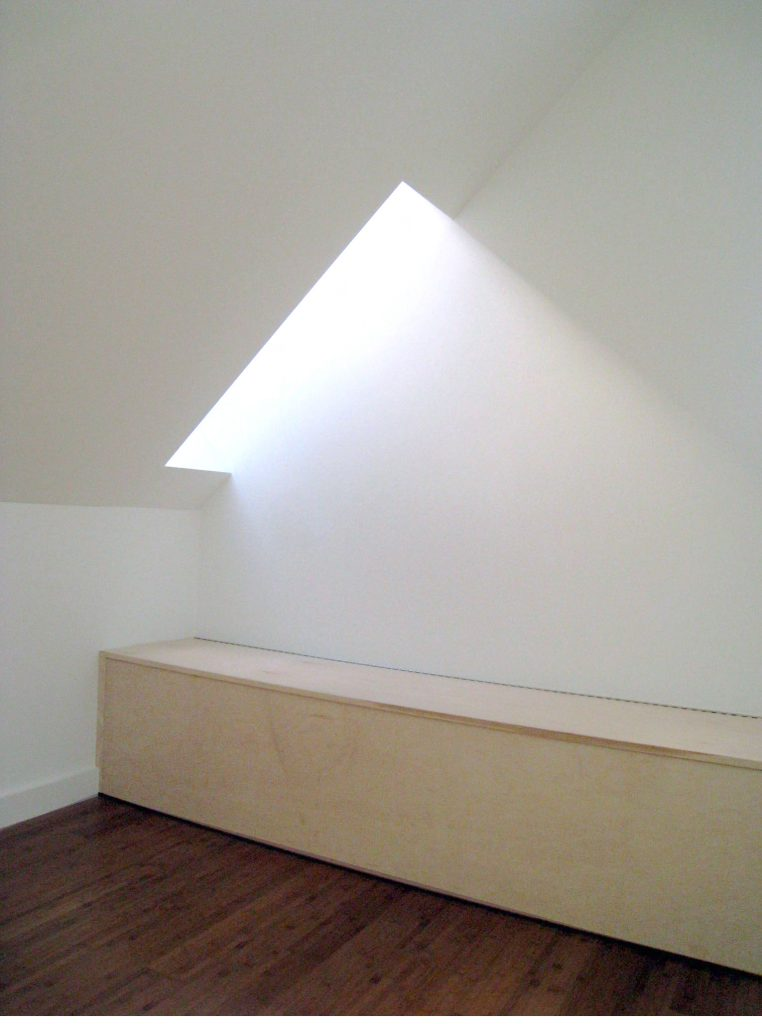
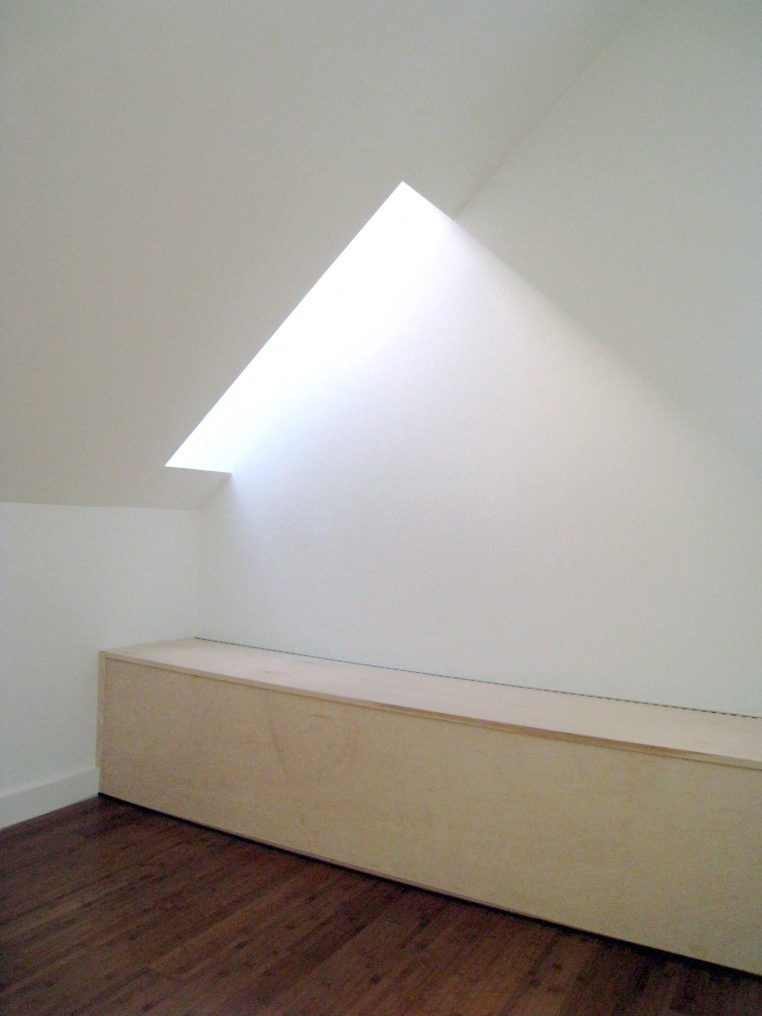
Fix sitewide row-padding cascade bug; Belvedere tile and crop
The generic band-row padding rule was overriding every specific row
padding at equal specificity (the footer bug's siblings): title-band
pages started 64px lower than plain pages, and gallery/overview rows
carried doubled gaps. All specific row rules now outrank it; every
page's first content line sits at the same height (pixel-measured
131-133 across work, about, contact, and project pages). Belvedere's
bench photo loses its 8px white bottom bar and becomes the project's
overview tile and og:image in place of the roof plan.

Claude-Session: https://claude.ai/code/session_01DCJKmvjgoa75rr5NGM94yB

diff --git a/dark/work/index.html b/dark/work/index.html
@@ -105,7 +105,7 @@
       <a class="wi-item" href="residential/25th-street/"><span class="wi-img"><img src="../../images/2017/03/1.jpg" alt="" loading="lazy" decoding="async"></span><span class="wi-name">25th Street<span class="wi-year">  2013</span></span></a>
       <a class="wi-item" href="residential/southard-place/"><span class="wi-img"><img src="../../images/2017/03/1-1-696x1024.jpg" alt="" loading="lazy" decoding="async"></span><span class="wi-name">Southard Place<span class="wi-year">  2010</span></span></a>
       <a class="wi-item" href="residential/xa-chin/"><span class="wi-img"><img src="../../images/2017/03/1.-xa-chin-lightwell-2-768x1024.jpg" alt="" loading="lazy" decoding="async"></span><span class="wi-name">Xa Chin<span class="wi-year">  2006</span></span></a>
-      <a class="wi-item" href="residential/belvedere/"><span class="wi-img"><img src="../../images/2017/03/1.-belvedere-roof-plan-1024x789.jpg" alt="" loading="lazy" decoding="async"></span><span class="wi-name">Belvedere<span class="wi-year">  2009</span></span></a>
+      <a class="wi-item" href="residential/belvedere/"><span class="wi-img"><img src="../../images/2017/03/3.-final-bench-1-762x1024.jpg" alt="" loading="lazy" decoding="async"></span><span class="wi-name">Belvedere<span class="wi-year">  2009</span></span></a>
       <a class="wi-item" href="residential/folsom/"><span class="wi-img"><img src="../../images/2017/03/1.-folsom-housing-1024x1007.jpg" alt="" loading="lazy" decoding="async"></span><span class="wi-name">Folsom<span class="wi-year">  2004</span></span></a>
     </div>
     <h5 class="wi-cat" id="institutional">INSTITUTIONAL</h5>

diff --git a/light/work/index.html b/light/work/index.html
@@ -105,7 +105,7 @@
       <a class="wi-item" href="residential/25th-street/"><span class="wi-img"><img src="../../images/2017/03/1.jpg" alt="" loading="lazy" decoding="async"></span><span class="wi-name">25th Street<span class="wi-year">  2013</span></span></a>
       <a class="wi-item" href="residential/southard-place/"><span class="wi-img"><img src="../../images/2017/03/1-1-696x1024.jpg" alt="" loading="lazy" decoding="async"></span><span class="wi-name">Southard Place<span class="wi-year">  2010</span></span></a>
       <a class="wi-item" href="residential/xa-chin/"><span class="wi-img"><img src="../../images/2017/03/1.-xa-chin-lightwell-2-768x1024.jpg" alt="" loading="lazy" decoding="async"></span><span class="wi-name">Xa Chin<span class="wi-year">  2006</span></span></a>
-      <a class="wi-item" href="residential/belvedere/"><span class="wi-img"><img src="../../images/2017/03/1.-belvedere-roof-plan-1024x789.jpg" alt="" loading="lazy" decoding="async"></span><span class="wi-name">Belvedere<span class="wi-year">  2009</span></span></a>
+      <a class="wi-item" href="residential/belvedere/"><span class="wi-img"><img src="../../images/2017/03/3.-final-bench-1-762x1024.jpg" alt="" loading="lazy" decoding="async"></span><span class="wi-name">Belvedere<span class="wi-year">  2009</span></span></a>
       <a class="wi-item" href="residential/folsom/"><span class="wi-img"><img src="../../images/2017/03/1.-folsom-housing-1024x1007.jpg" alt="" loading="lazy" decoding="async"></span><span class="wi-name">Folsom<span class="wi-year">  2004</span></span></a>
     </div>
     <h5 class="wi-cat" id="institutional">INSTITUTIONAL</h5>

diff --git a/css/study.css b/css/study.css
@@ -103,6 +103,7 @@ a:hover { color: var(--color-accent-text); }
 /* Project title: quiet, monograph-scale ---------------------------------- */
 
 .band-title { padding-top: var(--l); padding-bottom: 0; }
+.band.band-title .row { padding: 0; }
 .band-title h4 {
   font-size: var(--font-size-h4);
   font-weight: bold;
@@ -115,7 +116,7 @@ a:hover { color: var(--color-accent-text); }
 
 /* Gallery: full-width plate, contact sheet beneath ------------------------ */
 
-.band-gallery .row { padding-top: var(--m); padding-bottom: 0; }
+.band.band-gallery .row { padding-top: var(--m); padding-bottom: 0; }
 
 #ba-wrapper {
   display: flex;
@@ -155,7 +156,7 @@ a:hover { color: var(--color-accent-text); }
 
 /* Work overview ----------------------------------------------------------- */
 
-.band-workindex .row { padding-top: var(--m); }
+.band.band-workindex .row { padding-top: var(--m); }
 .wi-cat {
   font-size: 14px;
   font-weight: 400;
@@ -192,7 +193,7 @@ a:hover { color: var(--color-accent-text); }
 /* Info: whitespace instead of rules --------------------------------------- */
 
 .band-info { padding-top: var(--l); }
-.band-info .row { padding-top: 0; }
+.band.band-info .row { padding-top: 0; }
 
 .col-1-3 strong,
 .col-1-3 b {

diff --git a/light/work/residential/belvedere/index.html b/light/work/residential/belvedere/index.html
@@ -7,7 +7,7 @@
 <meta name="description" content="A 1,350 sq.ft. addition and build-out of an unfinished gable attic into a new top-level unit in Cole Valley was completed within a tight budget.">
 <meta property="og:title" content="Belvedere | Bach Architecture">
 <meta property="og:description" content="A 1,350 sq.ft. addition and build-out of an unfinished gable attic into a new top-level unit in Cole Valley was completed within a tight budget.">
-<meta property="og:image" content="https://andmimey.github.io/beverly-site/images/2017/03/1.-belvedere-roof-plan-1024x789.jpg">
+<meta property="og:image" content="https://andmimey.github.io/beverly-site/images/2017/03/3.-final-bench-1-762x1024.jpg">
 <meta property="og:type" content="website">
 <link rel="stylesheet" href="../../../../css/style.css">
 <link rel="stylesheet" href="../../../../css/light.css">

diff --git a/dark/work/residential/belvedere/index.html b/dark/work/residential/belvedere/index.html
@@ -7,7 +7,7 @@
 <meta name="description" content="A 1,350 sq.ft. addition and build-out of an unfinished gable attic into a new top-level unit in Cole Valley was completed within a tight budget.">
 <meta property="og:title" content="Belvedere | Bach Architecture">
 <meta property="og:description" content="A 1,350 sq.ft. addition and build-out of an unfinished gable attic into a new top-level unit in Cole Valley was completed within a tight budget.">
-<meta property="og:image" content="https://andmimey.github.io/beverly-site/images/2017/03/1.-belvedere-roof-plan-1024x789.jpg">
+<meta property="og:image" content="https://andmimey.github.io/beverly-site/images/2017/03/3.-final-bench-1-762x1024.jpg">
 <meta property="og:type" content="website">
 <link rel="stylesheet" href="../../../../css/style.css">
 <link rel="stylesheet" href="../../../../css/dark.css">

diff --git a/classic/work/residential/belvedere/index.html b/classic/work/residential/belvedere/index.html
@@ -7,7 +7,7 @@
 <meta name="description" content="A 1,350 sq.ft. addition and build-out of an unfinished gable attic into a new top-level unit in Cole Valley was completed within a tight budget.">
 <meta property="og:title" content="Belvedere | Bach Architecture">
 <meta property="og:description" content="A 1,350 sq.ft. addition and build-out of an unfinished gable attic into a new top-level unit in Cole Valley was completed within a tight budget.">
-<meta property="og:image" content="https://andmimey.github.io/beverly-site/images/2017/03/1.-belvedere-roof-plan-1024x789.jpg">
+<meta property="og:image" content="https://andmimey.github.io/beverly-site/images/2017/03/3.-final-bench-1-762x1024.jpg">
 <meta property="og:type" content="website">
 <link rel="stylesheet" href="../../../../css/style.css">
 </head>
